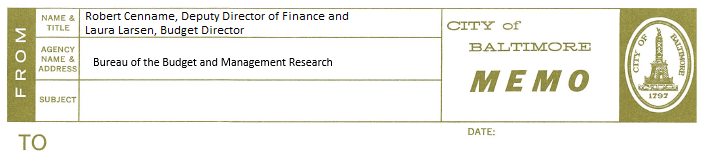
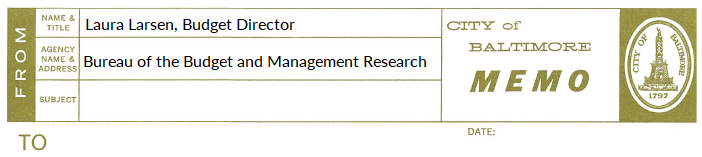
set for fund and service
latex tabu started breaking; repeat service names create blank cells

Changed region(s): [[0.1197, 0.0764, 0.5085, 0.2293], [0.1197, 0.3567, 0.6282, 0.4586]]

diff --git a/r/header.tex b/r/header.tex
@@ -26,6 +26,6 @@
   placement=top,
   vshift=-.8in,
   contents={%
-    \includegraphics{G:/Analyst Folders/Sara Brumfield/exp_planning_year/1_cls_memo/r/memo.png}
+    \includegraphics{G:/Analyst Folders/Sara Brumfield/exp_planning_year/bbmr_memos/r/memo.png}
   }%
 }
